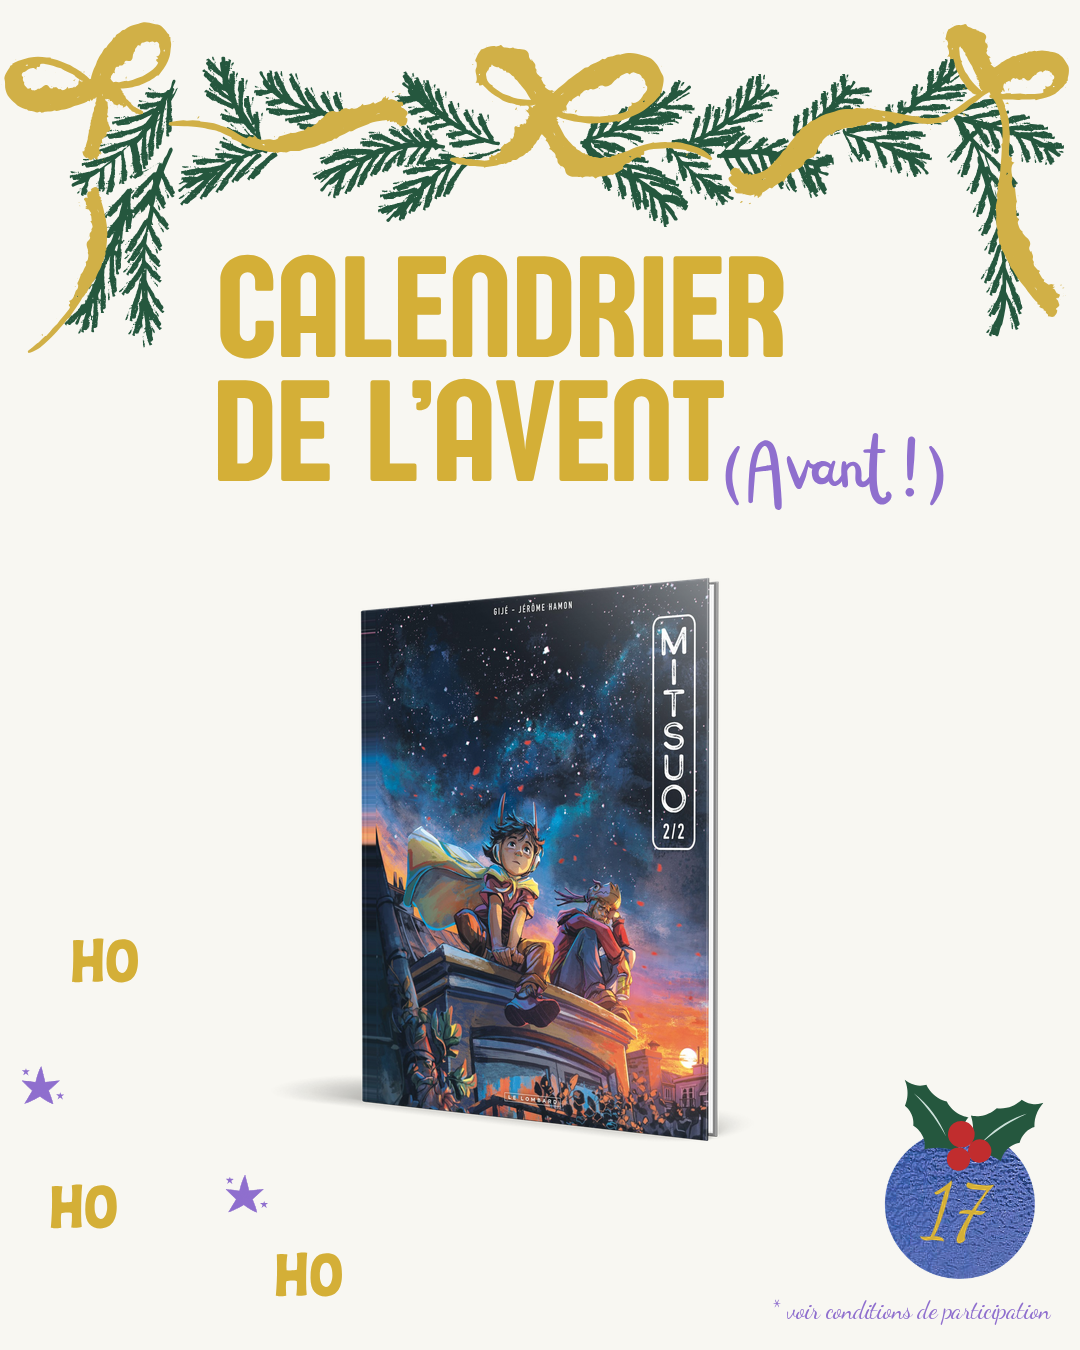
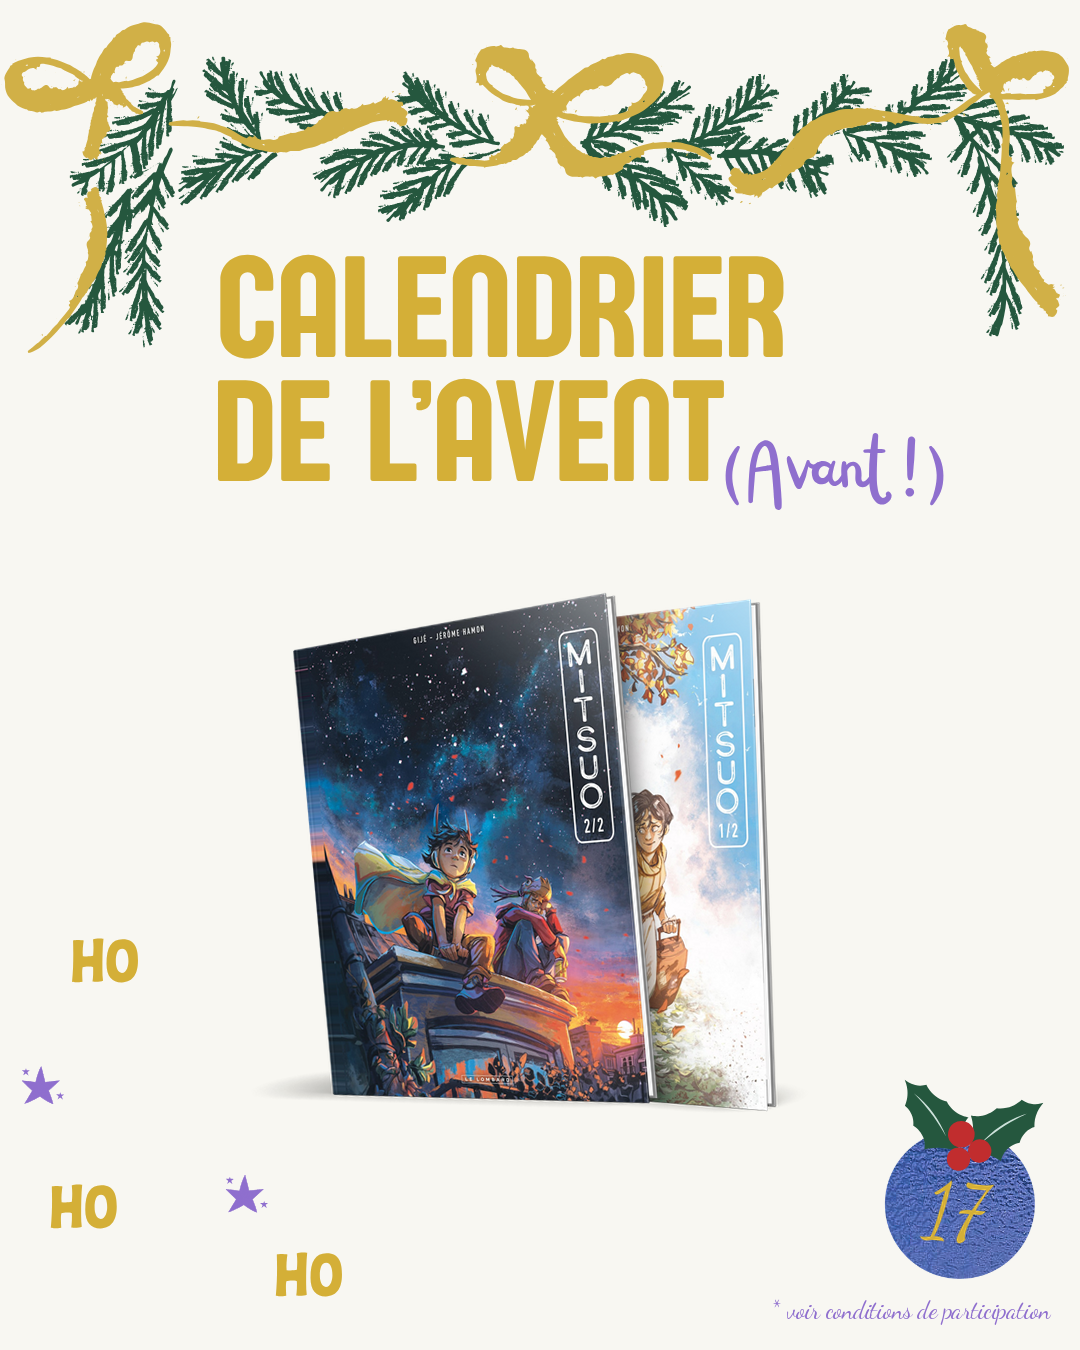
Calendrier Avant : jour 17, Mitsuo 2 devant, Mitsuo 1 derrière
Claude-Session: https://claude.ai/code/session_01QaZk7QZvzTVY1x8op41wve

Changed region(s): [[0.275, 0.4044, 0.7333, 0.84]]

diff --git a/calendrier-avent-2026/planning.py b/calendrier-avent-2026/planning.py
@@ -26,7 +26,7 @@ PLANNING = [
     ['9782808201292'],                    # 14 Resurrection Hill
     ['9782808218115'],                    # 15 Un Noël à Paris 2
     'jour16',                             # 16 Jian 1-2 | La voie du glaive 1-3 (voir COMPOSITIONS)
-    ['9782808212588'],                    # 17 Mitsuo 2
+    {'serie': ['9782808212588', '9782803676767']},                                   # 17 Mitsuo 2, 1
     ['9782808217453', '9782808218092'],   # 18 M.A.D. 3 + Sherlock Holmes contre Arsène Lupin 2
     ['9782808218078', '9782808216821'],   # 19 Pro gamer 2 + Dinodyssée 3
     ['9782808216760'],                    # 20 Alpha 21 – Caméléon
